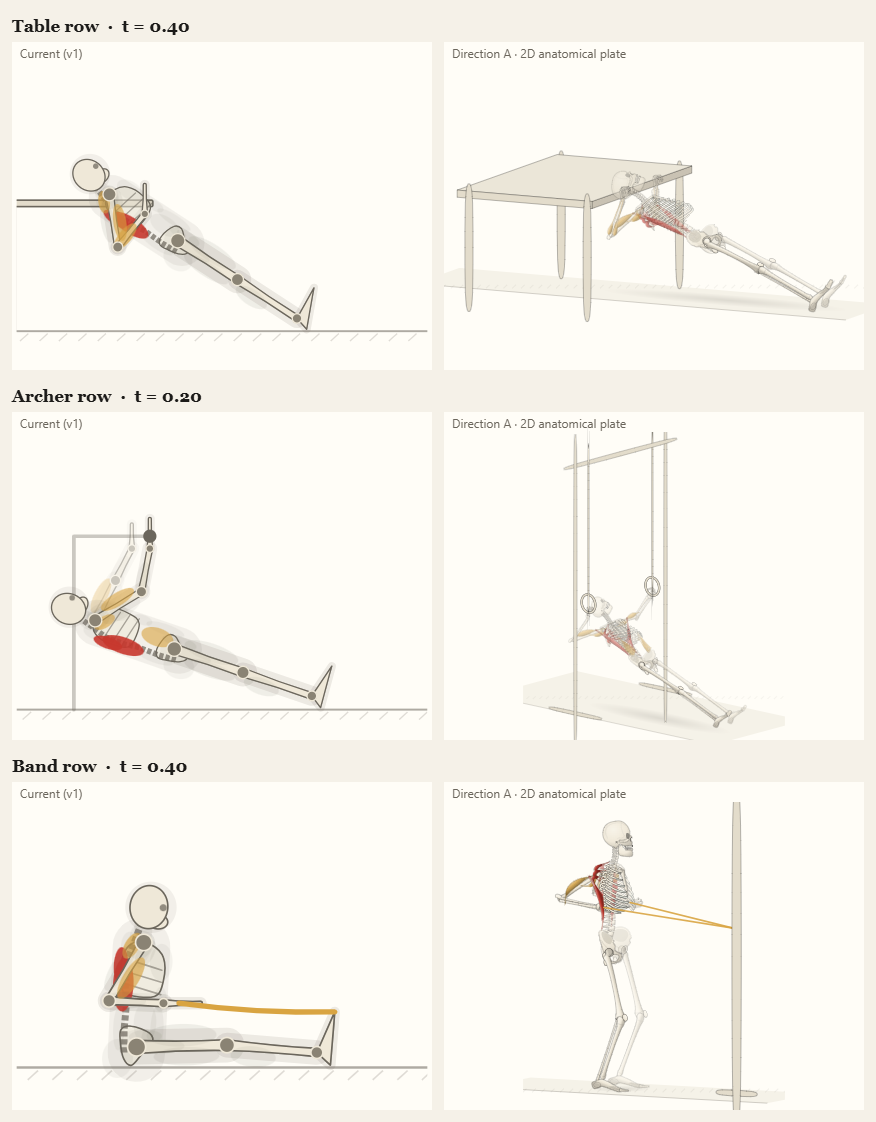
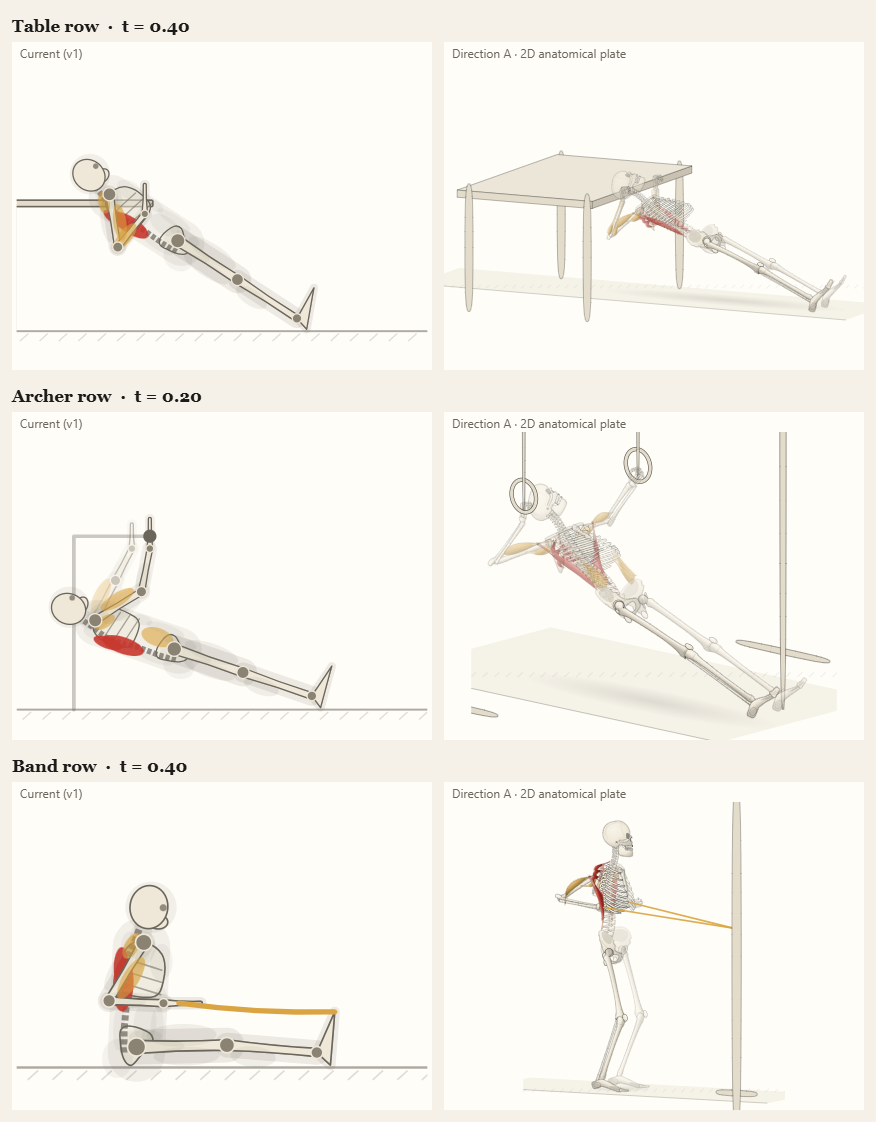
Anim v2 batch 2 prop fixes: simpler dip station, frames kept off the body, tighter framing
Bar dip: two bars on rear posts behind the tucked feet (floor feet, low brace); no upright crosses the torso.
Ring dip / archer row: uprights moved behind or beside the body; frame beams and straps may run out of the picture
(prop flag nv: not used to frame the view), so the figure is framed on the body and the rings. Pull-up family: the
bar frames the view, floor-standing uprights and feet no longer widen it.

Changed region(s): [[0.5548, 0.3743, 0.9555, 0.6551], [0.524, 0.6239, 0.5548, 0.6551]]

diff --git a/js/anim/v2/clips/push.js b/js/anim/v2/clips/push.js
@@ -204,10 +204,13 @@ const bench_dip = (() => {
   return c;
 })();
 
-// parallel bars (along x) on a grounded station; lean a little forward, shoulders just below the elbows at the bottom
-const DIP_Y = 118;
-const dipStation = (z, y = DIP_Y) => [-z, z].flatMap(zz => [rod([[-42, y, zz], [42, y, zz]], 1.9),
-  rod([[-36, y, zz], [-36, 0, zz]], 1.7), rod([[36, y, zz], [36, 0, zz]], 1.7), rod([[-46, 1.3, zz], [46, 1.3, zz]], 1.4)]);
+// parallel bars (along x) on a grounded station; lean a little forward, shoulders just below the elbows at the bottom.
+// Station kept simple and set back: each bar runs forward from one rear post (behind the tucked feet) with a floor foot,
+// and a low brace joins the posts, so no upright crosses the body in the 3/4 view.
+const DIP_Y = 118, POST_X = -58;
+const dipStation = (z, y = DIP_Y) => [...[-z, z].flatMap(zz => [rod([[POST_X - 6, y, zz], [24, y, zz]], 1.9),
+  rod([[POST_X, y, zz], [POST_X, 0, zz]], 1.8, 0, 1), rod([[POST_X - 18, 1.3, zz], [POST_X + 18, 1.3, zz]], 1.5, 0, 1)]),
+  rod([[POST_X, 30, -z], [POST_X, 30, z]], 1.5, 0, 1)];
 function dip(f) {
   const c = {
     cam: { az: 30, el: 7 }, floor: true, floorZ: 50, trail: ['acromionR'], still: .45, gz: 26,
@@ -235,9 +238,10 @@ const ring_dip = dip(c => ({
   name: 'Ring dip', gz: 23, shift: .6, shiftRoll: 1.1, cam: { az: 30, el: 6 },
   muscles: { primary: ['chest', 'triceps'], secondary: ['front_delts', 'biceps', 'abs'] },
   arms: { both: { mode: 'ik', grip: 'bar', palm: s => [.35, 0, .94 * s], pole: [-1, -.3, .2], target: (sd, s) => [0, DIP_Y, c.gz * s] } },
-  props: [...frame(FRAME_Y, 55), ...[-1, 1].flatMap(s => [
+  // frame and straps run up out of the picture; the view is framed on the body and the rings
+  props: [...frame(FRAME_Y, 55, 0, 1, -75), ...[-1, 1].flatMap(s => [
     { t: 'ring', c: [0, DIP_Y + RING_R - 1.5, c.gz * s], n: [0, 0, 1], r: RING_R },
-    rod([[0, DIP_Y + 2 * RING_R - 1.5, c.gz * s], [0, FRAME_Y, c.gz * s]], .6)])],
+    rod([[0, DIP_Y + 2 * RING_R - 1.5, c.gz * s], [0, FRAME_Y, c.gz * s]], .6, 0, 1)])],
 }));
 
 Object.assign(CLIPS, {

diff --git a/js/anim/v2/clips/lib.js b/js/anim/v2/clips/lib.js
@@ -40,10 +40,14 @@ export const hold = (a, b, dur = 4.4) => [{ cyclic: [a, b], dur, breath: 'cycle'
 
 // props
 export const box = (a, b, bias) => ({ t: 'box', a, b, bias });
-export const rod = (pts, r = 1.6, bias) => ({ t: 'tube', pts, r, bias });
-// a free-standing frame: top bar along z at height y (half-width w), uprights to the floor with a foot under each
-export const frame = (y, w, x = 0) => [rod([[x, y, -w], [x, y, w]]),
-  ...[-w, w].flatMap(z => [rod([[x, y, z], [x, 0, z]], 1.3), rod([[x - 26, 1.2, z], [x + 26, 1.2, z]], 1.3)])];
+export const rod = (pts, r = 1.6, bias, nv) => ({ t: 'tube', pts, r, bias, nv });   // nv: not used to frame the view
+// a free-standing frame: top bar along z at height y (half-width w), uprights to the floor with a foot under each.
+// Only the top bar frames the view (none of it with nv, e.g. rings hanging from high up): the rest may run out of the
+// picture, which keeps the figure large.
+// back: uprights stand at x = back (behind the body) and reach the top bar with a horizontal arm, so none crosses it.
+export const frame = (y, w, x = 0, nv = 0, back = x) => [rod([[x, y, -w], [x, y, w]], 1.6, 0, nv),
+  ...[-w, w].flatMap(z => [rod([[back, y, z], [back, 0, z]], 1.3, 0, 1), rod([[back - 26, 1.2, z], [back + 26, 1.2, z]], 1.3, 0, 1),
+    ...(back !== x ? [rod([[back, y, z], [x, y, z]], 1.3, 0, 1)] : [])])];
 
 // ---------------------------------------------------------------------------------------------------------------
 // floor plank family: a rigid body line pivoting on the balls of the feet (at height fy). Hips on a circle of radius L

diff --git a/js/anim/v2/clips/pull.js b/js/anim/v2/clips/pull.js
@@ -90,8 +90,12 @@ const archer_row = row(c => ({
   name: 'Archer row', gy: AR_Y, gz: AR_Z, swap: true, L: 87, still: .1, floorZ: 62, cam: { az: 42, el: 14 },
   muscles: { primary: ['upper_back', 'lats'], secondary: ['biceps', 'rear_delts', 'obliques'] },
   arms: { both: { mode: 'ik', grip: 'bar', palm: s => [.2, 0, -.98 * s], pole: [-1, -.35, .75], target: (sd, s) => [0, AR_Y, AR_Z * s] } },
-  props: [...frame(236, 62), ...[-1, 1].flatMap(s => [
-    { t: 'ring', c: [0, AR_Y + 7, AR_Z * s], n: [0, 0, 1], r: 8.5 }, rod([[0, AR_Y + 15.5, AR_Z * s], [0, 236, AR_Z * s]], .6)])],
+  // uprights placed to project clear of the body from this camera (one past the feet, one past the head); the beam
+  // joining them and the straps run out of the picture
+  props: [rod([[0, 236, 100], [0, 236, -100]], 1.6, 0, 1), rod([[0, 236, -100], [50, 236, -100]], 1.3, 0, 1),
+    ...[[0, 100], [50, -100]].flatMap(([x, z]) => [rod([[x, 236, z], [x, 0, z]], 1.3, 0, 1),
+    rod([[x - 26, 1.2, z], [x + 26, 1.2, z]], 1.3, 0, 1)]), ...[-1, 1].flatMap(s => [
+    { t: 'ring', c: [0, AR_Y + 7, AR_Z * s], n: [0, 0, 1], r: 8.5 }, rod([[0, AR_Y + 15.5, AR_Z * s], [0, 236, AR_Z * s]], .6, 0, 1)])],
   prep({ settle }) {
     rowGeometry(c, settle, 12, .95);
     // top: shift towards the right ring until the left arm is straight (98.5%)

diff --git a/js/anim/v2/plate.js b/js/anim/v2/plate.js
@@ -622,11 +622,10 @@ export function createPlatePlayer(container, animId, { primary, secondary, size 
     const T = K.period(clip);
     for (let i = 0; i < 16; i++) { const S = K.poseAt(clip, i / 16 * T); for (const n in S.pt) inc(cam.pr(S.pt[n]), 4); inc(cam.pr(K.P(S.F.head, [1, 17, 0])), 3); }
     const b = clip.bar;
-    if (b) for (const z of [-b.w - 5, b.w + 5]) {
-      inc(cam.pr([b.x || 0, b.y, z]), 3); inc(cam.pr([b.x || 0, b.posts === 'down' ? 0 : b.y + 16, z]), 2);
-      if (b.posts === 'down') for (const dx of [-26, 26]) inc(cam.pr([(b.x || 0) + dx, 0, z]), 2);
-    }
-    for (const p of st.props) for (const q of propPts(p)) inc(cam.pr(q), 1);
+    // the bar frames the view; floor-standing uprights and their feet may run out of the picture (figure stays large)
+    if (b) for (const z of [-b.w * .7, b.w * .7]) inc(cam.pr([b.x || 0, b.y, z]), 3);
+    if (b && b.posts !== 'down') for (const z of [-b.w - 5, b.w + 5]) inc(cam.pr([b.x || 0, b.y + 16, z]), 2);
+    for (const p of st.props) if (!p.nv) for (const q of propPts(p)) inc(cam.pr(q), 1);   // nv: may run out of frame
     if (clip.floor) inc(cam.pr([0, 0, 0]), st.lod ? 2 : 5);
     const pad = st.lod ? 2 : 8; x0 -= pad; x1 += pad; y0 -= pad; y1 += pad;
     let w = x1 - x0, h = y1 - y0;
